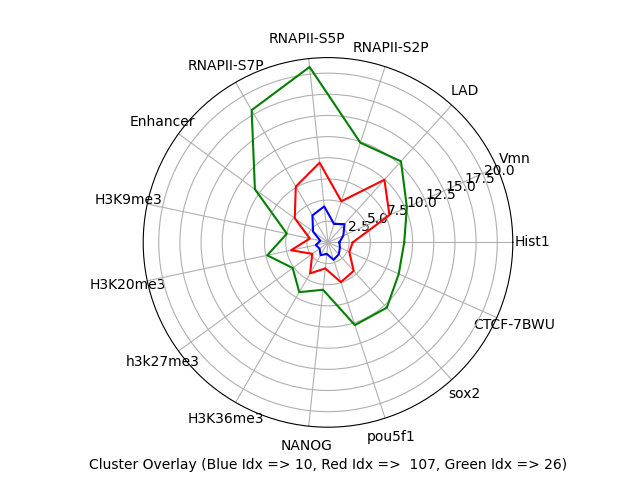
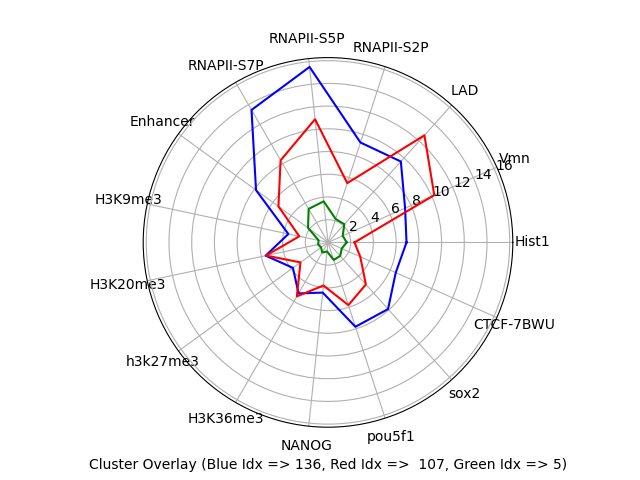
doing some documentation and running a 300 iteration test

diff --git a/Activity-10/main.py b/Activity-10/main.py
@@ -103,6 +103,9 @@ def k_means(extracted_nps, k_values, num_groups, max_iter=100):
         for i in range(len(jaccard_matrix)):
             similarities = [jaccard_matrix[k][i] for k in k_values]
             max_value = max(similarities)
+            # there is a tie in the similarity score
+            # in this case I find the group with the least number of NPs
+            # that also shares the max similarity score
             if similarities.count(max_value) > 1:
                 min_group_size = float('inf')
                 min_group_size_index = -1
@@ -202,16 +205,18 @@ best_initial_k_values = []
 best_ending_k_values = []
 best_k_groups = []
 for _ in range(number_of_iterations):
+    # random.sample does sample without replacement so that the initial k-values would never be the same
     k_values = random.sample(range(len(extracted_nps)), num_groups)
 
     print("Initial Medoids: ", k_values)
 
-    initial_medoid = k_values.copy()
+    initial_medoid = k_values.copy() # to keep track for later use
 
     k_values, clusters = k_means(extracted_nps, k_values, num_groups)
 
     variance = calculate_variance(clusters, extracted_nps, extracted_headers)
 
+    # keeping track of the best clustering and the associated data
     if variance < lowest_variance:
         lowest_variance = variance
         best_initial_k_values = initial_medoid
@@ -224,25 +229,34 @@ print("Cluster Sizes: ")
 for i, cluster in enumerate(clusters):
     print(f"  Cluster {i+1}: {len(cluster)} elements")
 
+
+
 colors = ['b', 'r', 'g']
 
+# going through each of the features and calculating the percentage of occurrences for that feature in each cluster
 for i, group in enumerate(best_k_groups):
+    # the count per feature for each group
     feature_counts = {feature: 0 for feature in features}
+    # the actual column data for the group
     group_data = [extracted_nps[i] for i in group]
 
-    group_size = len(group)
-
     for feature in features:
+        # features_map is the index in the csv for each feature, this grabs that index
         feature_index = feature_map[feature]
         feature_count = 0
 
+        # looping through the row and col to count the feature
         for row in group_data:
             for col_idx, col in enumerate(row):  
+                # does the specific column and row have a 1
+                # and does the same index in the csv file, for the feature\
                 if int(row[col_idx]) == 1 and int(csv_data[col_idx][feature_index]) == 1:
                     feature_count += 1
 
+        # adding to the hash map of all the features for the group the average
         feature_counts[feature] = feature_count / (len(group_data[0]) * len(group_data)) * 100
 
+    # below here is the code to make the spider plot
     labels = list(feature_counts.keys())
     stats = list(feature_counts.values())
 
